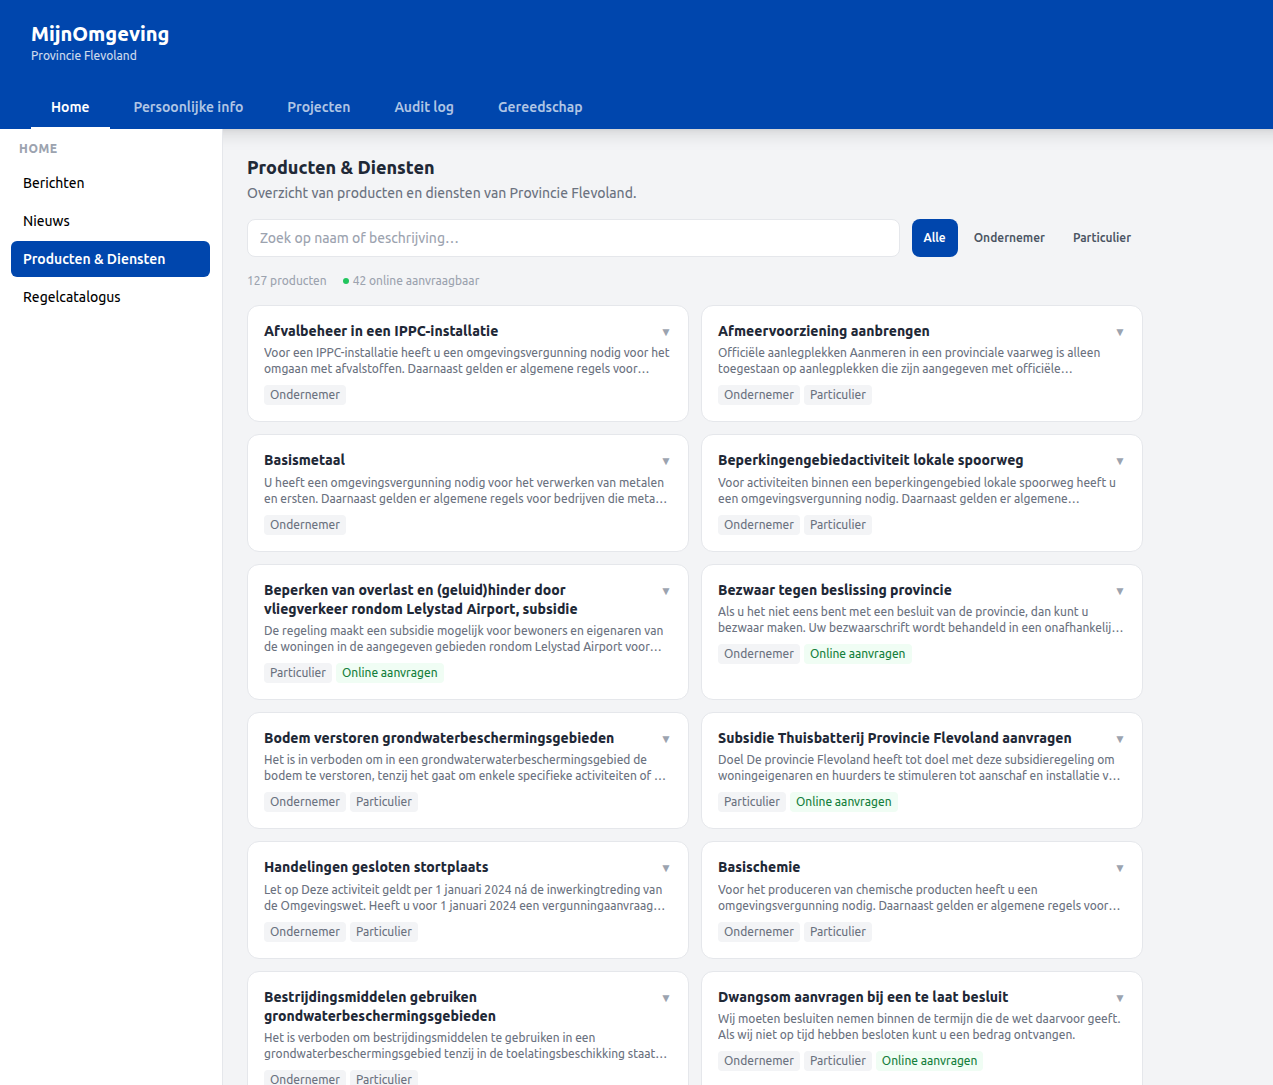
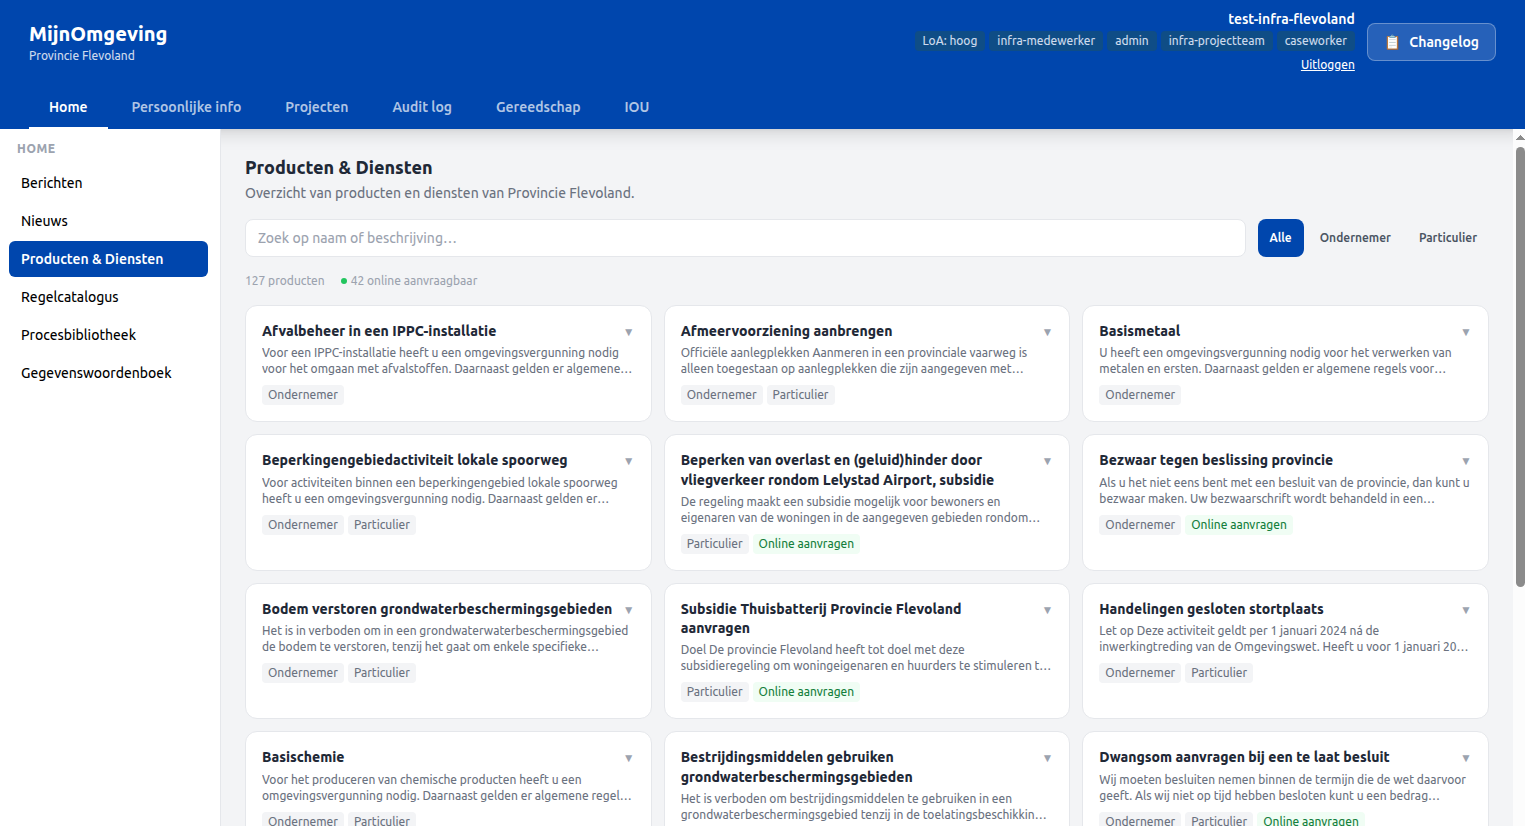
chore: RBA release v2.9.7 documented

diff --git a/docs/en/ronl-business-api/developer/changelog-roadmap.md b/docs/en/ronl-business-api/developer/changelog-roadmap.md
@@ -4,7 +4,53 @@
 
 ## Changelog
 
-## v2.9.5 — Enhancement (April 2, 2026)
+## v2.9.7 — Feature Release (April 3, 2026)
+
+### AI Assistant — CPRMV Legislation Provider
+
+`CprmvMcpProvider` added to the MCP registry. Connects to the CPRMV HTTP MCP server at `acc.cprmv.open-regels.nl/mcp` using `StreamableHTTPClientTransport` — a remote HTTP endpoint, not a subprocess. Enabled via `CPRMV_MCP_ENABLED=true`; URL overridable via `CPRMV_URL`.
+
+Three tools exposed: `rules_rules__rule_id_path__get` (retrieve rules from BWB, CVDR, or EU CELLAR by rule ID path), `ref_ref__referencemethod___reference__get` (resolve rules by Juriconnect reference), `celex_cellar_by_celex__celexid___language___format__get` (look up EU CELLAR publications by CELEX id).
+
+`config.cprmv` added to `Config`: `enabled` (`CPRMV_MCP_ENABLED`, default `false`), `url` (`CPRMV_URL`).
+
+### AI Assistant — LDE Process Library Provider
+
+`LdeMcpProvider` added. Spawns a custom `lde-mcp` stdio subprocess (`src/mcp-servers/lde/index.ts` in dev, `dist/mcp-servers/lde/index.js` in prod) that connects directly to the LDE `lde_assets` PostgreSQL database. Enabled via `LDE_MCP_ENABLED=true` and `LDE_DATABASE_URL`.
+
+Six tools: `bundle_list`, `bundle_get` (deployed BPMN bundles with forms, documents, subprocesses, and DMN keys), `form_list`, `form_get` (full Camunda Form JSON schema), `document_list`, `document_get` (zones and bindings).
+
+SSL handled by stripping `sslmode` from the connection URL and passing `ssl: { rejectUnauthorized: true }` to the pg `Pool` constructor directly — avoids the pg-connection-string `sslmode=require` deprecation warning.
+
+`config.lde` added to `Config`: `enabled` (`LDE_MCP_ENABLED`, default `false`), `databaseUrl` (`LDE_DATABASE_URL`).
+
+### AI Assistant — LLM Provider Architecture
+
+`LlmProvider` interface introduced in `src/services/llm/LlmProvider.ts`. Decouples the agentic loop from any specific SDK — `mcpChat.service.ts` has no direct dependency on Anthropic or OpenAI. Provider-agnostic types: `AgentMessage`, `AgentToolUse`, `AgentToolResult`, `LlmStreamParams`, `LlmTurnResult`.
+
+`LlmRegistry` singleton maps model IDs to their owning provider. `getAvailableModels()` returns only models from providers where `isAvailable()` is `true`.
+
+`AnthropicLlmProvider` registered with three models: `claude-sonnet-4-20250514`, `claude-opus-4-20250514`, `claude-haiku-4-5-20251001`. Enabled when `ANTHROPIC_API_KEY` is set.
+
+`OpenAILlmProvider` registered with `gpt-4o` and `gpt-4o-mini`. Enabled when `OPENAI_API_KEY` is set.
+
+`GET /v1/mcp/models` added — returns all available models with `providerId` and `providerDisplayName`. Used by the frontend model selector dropdown.
+
+`POST /v1/mcp/chat` body extended with `modelId: string` — required field; returns `400 INVALID_REQUEST` when absent.
+
+Frontend: model selector dropdown rendered below the subtitle in the AI Assistant header. Hidden when only one model is available. First available model pre-selected on mount.
+
+### Caseworker Dashboard — Procesbibliotheek
+
+New `procesbibliotheek` section added to the Home tab for all tenants whose `leftPanelSections.home` includes the entry (currently Utrecht, Amsterdam, Rotterdam, Den Haag, Flevoland). Publicly accessible (`isPublic: true`).
+
+Fetches deployed BPMN bundles from the LDE public API (`VITE_LDE_API_URL/bundles/public`). A dedicated `ldeApi` Axios instance is used — no Keycloak `Authorization` header is sent. Cards show process name, `bpmnProcessId`, status badge (WIP/Actief/Concept), role badge (Standalone/Subprocess), and deployment date; expand to reveal forms, documents, DMN keys, and deployment ID.
+
+`ProcessBundle`, `BundleDeployedForm`, `BundleDeployedDocument` types exported from `api.ts`. `VITE_LDE_API_URL` added to all env files and `vite-env.d.ts`.
+
+---
+
+## v2.9.6 — Enhancement (April 2, 2026)
 
 ### IOU — Gebruiksscenario indienen — UX improvements
 
@@ -26,7 +72,7 @@ The `/use-case` submission remains plain JSON (`Content-Type: application/json`)
 
 ---
 
-## v2.9.4 — Feature Release (April 1, 2026)
+## v2.9.5 — Feature Release (April 1, 2026)
 
 ### Caseworker Dashboard — IOU tab (Flevoland)
 
@@ -54,6 +100,28 @@ To enable the IOU tab for another tenant, add an `iou` key with the four section
 Both endpoints require `GITLAB_TOKEN`, `GITLAB_BASE_URL`, and `GITLAB_PROJECT_PATH` to be set. Missing configuration returns `503 GITLAB_NOT_CONFIGURED`.
 
 See [IOU GitLab Integration](iou-gitlab-integration.md) for full setup instructions, environment variable reference, and the curl verification steps.
+
+---
+
+## v2.9.4 — Feature Release (March 30, 2026)
+
+### AI Assistant — Multi-Source MCP Registry
+
+`McpClientService` singleton replaced by `McpRegistry` — a provider registry that manages multiple independent MCP sources. Each provider connects, exposes a curated set of tools, and contributes a section to the composite system prompt independently. A provider failure does not block other providers.
+
+`McpProvider` interface introduced: `id`, `displayName`, `description`, `connect()`, `disconnect()`, `getToolDefinitions()`, `callTool()`, `isConnected()`, `systemPromptContribution()`.
+
+`OperatonMcpProvider` replaces `McpClientService` — identical stdio subprocess behaviour, 15-tool `ALLOWED_TOOLS` curation gate preserved.
+
+`TriplyDbMcpProvider` added — spawns the bundled `triplydb-mcp` stdio server; connects to the RONL SPARQL endpoint (`stevengort/RONL`). Exposes 11 tools: `dmn_list`, `dmn_get`, `dmn_chain_links`, `dmn_enhanced_chain_links`, `dmn_semantic_equivalences`, `organization_list`, `service_list`, `rule_list`, `concept_list`, `service_rules_metadata`, `sparql_query`. Enabled via `TRIPLYDB_MCP_ENABLED=true`.
+
+`McpRegistry.getToolDefinitions(providerIds?)` and `callTool()` accept an optional provider ID filter. `buildSystemPrompt(providerIds?)` assembles a composite prompt from only the selected connected providers. `getProviderMeta()` returns metadata and connection status for all registered providers.
+
+`POST /v1/mcp/chat` extended with `sources: string[]` — provider IDs selected by the user for the session. `GET /v1/mcp/sources` added — returns provider metadata and connection status.
+
+Frontend: source selector toggle buttons rendered below the message history. All connected sources pre-selected by default; offline providers shown greyed-out. Send button and textarea disabled when no sources are selected. Header subtitle shows active source display names dynamically.
+
+Markdown rendering added to assistant bubbles via `react-markdown` + `@tailwindcss/typography` prose classes. In-progress streaming bubble also renders Markdown incrementally.
 
 ---
 
@@ -602,10 +670,17 @@ Utrecht, Amsterdam, Rotterdam, Den Haag — each with isolated data, custom them
 | Berichten — live Provincie Flevoland RSS feed            | v2.9.3  |
 | Producten & Diensten Catalogus (Flevoland)               | v2.9.3  |
 | AI Assistant — SSE streaming + TriplyDB Knowledge Graph  | v2.9.3  |
-| IOU tab — GitLab integration (Flevoland)                 | v2.9.4  |
-| `POST /v1/public/use-cases`, `POST /v1/public/feedback`  | v2.9.4  |
-| IOU form UX — step badges, add/remove, file attachments  | v2.9.5  |
-| `POST /v1/public/upload-file`                            | v2.9.5  |
+| AI Assistant — Multi-Source MCP Registry (McpRegistry)   | v2.9.4  |
+| TriplyDbMcpProvider + Knowledge Graph tools              | v2.9.4  |
+| Source selector UI + Markdown rendering in chat bubbles  | v2.9.4  |
+| IOU tab — GitLab integration (Flevoland)                 | v2.9.5  |
+| `GET /v1/public/use-cases`, `POST /v1/public/feedback`   | v2.9.5  |
+| IOU form UX — step badges, add/remove, file attachments  | v2.9.6  |
+| `POST /v1/public/upload-file`                            | v2.9.6  |
+| CPRMV Legislation Provider                               | v2.9.7  |
+| LDE Process Library Provider                             | v2.9.7  |
+| LLM Provider Architecture (LlmRegistry, OpenAI support)  | v2.9.7  |
+| Procesbibliotheek section                                | v2.9.7  |
 
 ---
 

diff --git a/docs/en/ronl-business-api/developer/mcp-ai-assistant.md b/docs/en/ronl-business-api/developer/mcp-ai-assistant.md
@@ -16,24 +16,6 @@ Sources and models are selected per session. See [LLM Provider Architecture](llm
 
 ---
 
-## Access pattern
-
-This feature uses [**Pattern 2 — `operaton-mcp` via `engine-rest`**](operaton-access-patterns.md#pattern-2-operaton-mcp-via-engine-rest-oidc) from the Operaton Access Patterns reference. The `operaton-mcp` subprocess talks **directly to Operaton's `engine-rest` API**, bypassing the RONL Business API entirely. It receives the full, unfiltered Operaton surface — all process instances, all deployments, all tenants — with no organisation filter applied.
-
-In `mcpClient.service.ts`, the `StdioClientTransport` spawns the `operaton-mcp` child process and passes it the following env vars directly from the backend configuration:
-```typescript
-OPERATON_BASE_URL: config.operaton.baseUrl,   // → OPERATON_BASE_URL (must end with /engine-rest)
-OPERATON_USERNAME: config.operaton.username,
-OPERATON_PASSWORD: config.operaton.password,
-```
-
-Authentication is **basic auth** — unlike the standalone external `operaton-mcp` configuration described in the access patterns page, which uses OIDC client credentials. Because the AI assistant runs as an embedded backend subprocess, it inherits the backend's own Operaton service account credentials rather than an independent Keycloak client.
-
-!!! warning "OPERATON_BASE_URL must point at engine-rest"
-    Setting `OPERATON_BASE_URL` to the RONL Business API base URL (e.g. `https://acc.api.open-regels.nl`) will break every MCP tool call. The AI assistant requires the native `engine-rest` path structure — routes like `/process-instance`, `/history/process-instance`, and `/deployment` must resolve directly on the Operaton host. See [Why the patterns are incompatible](operaton-access-patterns.md#why-the-patterns-are-incompatible).
-
----
-
 ## Data sources
 
 The AI assistant connects to one or more **MCP providers** registered in `McpRegistry`. Each provider exposes a curated set of read-only tools and contributes a section to the system prompt. The frontend fetches the list of providers from `GET /v1/mcp/sources` on mount and pre-selects all connected ones. The user can deselect sources before sending a message.
@@ -61,6 +43,22 @@ The `OperatonMcpProvider` spawns the `operaton-mcp` npm package as a stdio child
 `processDefinition_list`, `processDefinition_count`, `processDefinition_getByKey`, `processInstance_list`, `processInstance_count`, `processInstance_get`, `task_list`, `task_count`, `task_getById`, `decision_list`, `decision_getByKey`, `deployment_list`, `deployment_count`, `deployment_getById`, `incident_list`, `incident_count`
 
 All other `operaton-mcp` tools are blocked by the `ALLOWED_TOOLS` set in `OperatonMcpProvider.ts`.
+
+#### Access pattern
+
+The MCP AI Assistant uses [**Pattern 2 — `operaton-mcp` via `engine-rest`**](operaton-access-patterns.md#pattern-2-operaton-mcp-via-engine-rest-oidc) from the Operaton Access Patterns reference. The `operaton-mcp` subprocess talks **directly to Operaton's `engine-rest` API**, bypassing the RONL Business API entirely. It receives the full, unfiltered Operaton surface — all process instances, all deployments, all tenants — with no organisation filter applied.
+
+In `mcpClient.service.ts`, the `StdioClientTransport` spawns the `operaton-mcp` child process and passes it the following env vars directly from the backend configuration:
+```typescript
+OPERATON_BASE_URL: config.operaton.baseUrl,   // → OPERATON_BASE_URL (must end with /engine-rest)
+OPERATON_USERNAME: config.operaton.username,
+OPERATON_PASSWORD: config.operaton.password,
+```
+
+Authentication is **basic auth** — unlike the standalone external `operaton-mcp` configuration described in the access patterns page, which uses OIDC client credentials. Because the AI assistant runs as an embedded backend subprocess, it inherits the backend's own Operaton service account credentials rather than an independent Keycloak client.
+
+!!! warning "OPERATON_BASE_URL must point at engine-rest"
+    Setting `OPERATON_BASE_URL` to the RONL Business API base URL (e.g. `https://acc.api.open-regels.nl`) will break every MCP tool call. The AI assistant requires the native `engine-rest` path structure — routes like `/process-instance`, `/history/process-instance`, and `/deployment` must resolve directly on the Operaton host. See [Why the patterns are incompatible](operaton-access-patterns.md#why-the-patterns-are-incompatible).
 
 ### Knowledge Graph tools (`triplydb`)
 

diff --git a/docs/en/ronl-business-api/features/procesbibliotheek.md b/docs/en/ronl-business-api/features/procesbibliotheek.md
@@ -1,0 +1,57 @@
+# Procesbibliotheek
+
+From v2.9.7, the caseworker dashboard includes a **Procesbibliotheek** — a public section showing all deployed BPMN process bundles from the Linked Data Explorer (LDE). It gives caseworkers and unauthenticated visitors an at-a-glance view of the processes, forms, document templates, and decision models that are live in the platform.
+
+<figure markdown style="width:100%; margin:0;">
+  ![Screenshot: Procesbibliotheek — card grid showing deployed BPMN bundles with status and role badges](../../../assets/screenshots/caseworker-dashboard-procesbibliotheek.png)
+  <figcaption>Procesbibliotheek — each card represents a deployed BPMN bundle. Expanding a card reveals linked forms, document templates, and DMN keys.</figcaption>
+</figure>
+
+---
+
+## Placement and access
+
+The Procesbibliotheek appears under the **Home** tab in the caseworker dashboard left panel for all tenants whose `tenants.json` entry includes `{ "id": "procesbibliotheek", "label": "Procesbibliotheek", "isPublic": true }` in `leftPanelSections.home`. It is rendered by the `ProcesBibliotheek` React component (`src/components/CaseworkerDashboard/ProcesBibliotheek.tsx`).
+
+`isPublic: true` means it is accessible without login, alongside Nieuws, Berichten, and Regelcatalogus.
+
+---
+
+## What the cards show
+
+Each card represents one deployed BPMN bundle from the LDE. The collapsed card shows:
+
+- Process name (from the LDE bundle metadata)
+- `bpmnProcessId` (the Operaton process definition key)
+- Status badge: **WIP**, **Actief**, or **Concept**
+- Role badge: **Standalone** or **Subprocess**
+- Deployment date
+
+Expanding a card reveals:
+
+- Linked Camunda Form schemas (by `camunda:formRef`)
+- Linked document templates (by `ronl:documentRef`)
+- Linked DMN decision keys
+- LDE deployment ID
+
+---
+
+## Data source
+
+Data is fetched on mount from `VITE_LDE_API_URL/bundles/public`. This is the same public endpoint used by the LDE frontend and requires no authentication. A dedicated `ldeApi` Axios instance in `services/api.ts` is used to avoid attaching the Keycloak `Authorization` header to LDE requests.
+
+---
+
+## AI Assistant integration
+
+The LDE MCP provider (`LdeMcpProvider`) exposes the same bundle data to the AI Assistant via six tools (`bundle_list`, `bundle_get`, `form_list`, `form_get`, `document_list`, `document_get`). A caseworker can ask the AI Assistant questions about deployed processes, forms, and document templates and receive answers drawn directly from the LDE database, complementing the visual browse experience in the Procesbibliotheek.
+
+See [MCP AI Assistant — Process Library tools](../developer/mcp-ai-assistant.md#process-library-tools-lde) for the tool reference.
+
+---
+
+## Related documentation
+
+- [Caseworker Dashboard](caseworker-dashboard.md) — Section ID table and left panel architecture
+- [MCP AI Assistant](../developer/mcp-ai-assistant.md) — LDE Process Library provider
+- [Regelcatalogus](regelcatalogus.md) — Knowledge graph browser, similar public section

diff --git a/docs/en/ronl-business-api/references/environment-variables.md b/docs/en/ronl-business-api/references/environment-variables.md
@@ -46,8 +46,16 @@
 |---------------------|-----------------------|---------|-----------------------------------------------------------------------------|
 | `MCP_ENABLED`       | No                    | `false` | Enables the MCP client and `POST /v1/mcp/chat`. Must be `true` on ACC/PROD. |
 | `ANTHROPIC_API_KEY` | — | Anthropic API key; required when `MCP_ENABLED=true` |
-| `TRIPLYDB_ENDPOINT` | `https://api.open-regels.triply.cc/datasets/stevengort/RONL/services/RONL/sparql` | SPARQL endpoint for the TriplyDB Knowledge Graph MCP provider |
-| `TRIPLYDB_TOKEN` | — | TriplyDB API token; required for authenticated SPARQL queries |
+| `MCP_SKIP_HEALTH_CHECK` | No | `false` | Skips provider health checks on startup. Useful when providers start slowly on first deployment. |
+| `ANTHROPIC_API_KEY` | Conditional | — | Anthropic API key. Required when `MCP_ENABLED=true` and `AnthropicLlmProvider` is active. |
+| `OPENAI_API_KEY` | No | — | Enables `OpenAILlmProvider` and exposes `gpt-4o` and `gpt-4o-mini` in the model selector. Leave unset to use Anthropic only. Requires the `openai` package: `npm install openai --workspace=@ronl/backend`. |
+| `TRIPLYDB_MCP_ENABLED` | No | `false` | Enables the TriplyDB Knowledge Graph MCP provider. |
+| `TRIPLYDB_ENDPOINT` | Conditional | — | SPARQL endpoint URL. Required when `TRIPLYDB_MCP_ENABLED=true`. Use `https://api.open-regels.triply.cc/datasets/stevengort/RONL/services/RONL/sparql` for the canonical RONL graph. |
+| `TRIPLYDB_TOKEN` | No | — | TriplyDB API token. May be empty for public datasets. |
+| `CPRMV_MCP_ENABLED` | No | `false` | Enables the CPRMV legislation provider (Dutch and EU law via HTTP MCP). |
+| `CPRMV_URL` | No | `https://acc.cprmv.open-regels.nl/mcp` | CPRMV MCP server URL. Override for PROD deployment. |
+| `LDE_MCP_ENABLED` | No | `false` | Enables the LDE Process Library provider. Exposes deployed BPMN bundles, form schemas, and document templates to the AI Assistant. |
+| `LDE_DATABASE_URL` | Conditional | — | PostgreSQL connection string for the `lde_assets` database. Required when `LDE_MCP_ENABLED=true`. On Azure: use a separate Flexible Server and append `?sslmode=require`. Locally: reuse the existing `ronl-postgres` container. |
 
 > `OPERATON_USERNAME` and `OPERATON_PASSWORD` are also passed to the `operaton-mcp` child process.
 > Ensure they are set before enabling MCP.
@@ -148,6 +156,7 @@
 |---|---|---|
 | `VITE_API_URL` | Yes | Business API base URL (e.g. `https://api.open-regels.nl/v1`) |
 | `VITE_KEYCLOAK_URL` | Yes | Keycloak base URL (e.g. `https://keycloak.open-regels.nl`) |
+| `VITE_LDE_API_URL` | Yes | LDE public API base URL. Used by `ProcesBibliotheek` to fetch deployed BPMN bundles. ACC: `https://acc.backend.linkeddata.open-regels.nl/v1`. PROD: `https://backend.linkeddata.open-regels.nl/v1`. |
 
 ---
 

diff --git a/docs/en/ronl-business-api/developer/frontend-development.md b/docs/en/ronl-business-api/developer/frontend-development.md
@@ -33,7 +33,13 @@ packages/frontend/src/
 │       ├── RipFase1WipSection.tsx
 │       ├── RipFase1GereedSection.tsx
 │       ├── GereedschapSection.tsx
-│       └── AuditSection.tsx
+│       ├── AuditSection.tsx
+│       ├── McpChatSection.tsx
+│       ├── ProductenDienstenCatalogus.tsx
+│       ├── ProcesBibliotheek.tsx
+│       ├── IouGebruiksscenarioSection.tsx
+│       ├── IouFeedbackSection.tsx
+│       └── IouZakenSection.tsx
 ├── contexts/                   # React contexts (auth, tenant)
 ├── hooks/
 │   └── useProfielData.ts       # Shared hook for Profiel and Rollen sections
@@ -116,7 +122,7 @@ const [isAuthenticated] = useState(() => !!keycloak.authenticated);
 
 The shell renders three zones driven by `tenantConfig` loaded from `public/tenants.json`:
 
-- **Top nav** — three `TopNavPage` values: `home | personal-info | projects`
+- **Top nav** — six `TopNavPage` values: `home | personal-info | projects | audit-log | gereedschap | iou`. The `audit-log` and `gereedschap` tabs are platform-scoped (hardcoded, not in `tenants.json`). The `iou` tab is tenant-scoped and only present for tenants that define `leftPanelSections.iou`.
 - **Left panel** — `tenantConfig.leftPanelSections[activeTopNavPage]`, an array of `LeftPanelSection` objects each with `id`, `label`, and `isPublic`
 - **Main content** — `renderContent()` switches on `activeSection`
 
@@ -284,6 +290,9 @@ VITE_KEYCLOAK_URL=https://acc.keycloak.open-regels.nl
 
 # Business API
 VITE_API_URL=https://acc.api.open-regels.nl/v1
+
+# Linked Data Explorer (used by ProcesBibliotheek)
+VITE_LDE_API_URL=https://acc.backend.linkeddata.open-regels.nl/v1
 ```
 
 **Environment detection:**

diff --git a/docs/en/ronl-business-api/features/caseworker-dashboard.md b/docs/en/ronl-business-api/features/caseworker-dashboard.md
@@ -80,6 +80,7 @@ The main area renders the component for `activeSection`. Each section ID maps to
 | `berichten`             | `<BerichtenSection />`                 | No                                |
 | `producten-diensten`    | `<ProductenDienstenCatalogus />`       | No                                |
 | `regelcatalogus`        | `<RegelCatalogus />`                   | No                                |
+| `procesbibliotheek`     | `<ProcesBibliotheek />`                | No                                |
 | `taken`                 | `<TakenSection />`                     | Yes                               |
 | `archief`               | `<ArchiefSection />`                   | Yes                               |
 | `profiel`               | `<ProfielSection />`                   | Yes                               |
@@ -90,6 +91,7 @@ The main area renders the component for `activeSection`. Each section ID maps to
 | `rip-fase1-wip`         | `<RipFase1WipSection />`               | Yes + `infra-projectteam` role    |
 | `rip-fase1-gereed`      | `<RipFase1GereedSection />`            | Yes + `infra-projectteam` role    |
 | `gereedschap-overzicht` | `<GereedschapSection />`               | Yes (platform-scoped)             |
+| `mcp-chat`              | `<McpChatSection />`                   | Yes — `caseworker` role (platform-scoped) |
 | `audit-overzicht`       | `<AuditSection activeTab="overzicht">` | Yes + `admin` role (platform-scoped) |
 | `audit-details`         | `<AuditSection activeTab="details">`   | Yes + `admin` role (platform-scoped) |
 

diff --git a/docs/en/index.md b/docs/en/index.md
@@ -8,9 +8,9 @@ Welcome to the comprehensive documentation for the IOU Architecture Framework an
 
 <div class="grid cards whats-new-cards" markdown>
 
--   **⚙ RONL Business API — v2.9.6** · *April 2026*
+-   **⚙ RONL Business API — v2.9.7** · *April 2026*
 
-    New IOU tab for the Flevoland tenant: use-case submission form (10 sections, optional file attachments), feedback form with screenshot upload, and read-only active/archived GitLab issue lists — all backed by a new GitLab proxy route group on `/v1/public`. AI Assistant extended with a TriplyDB Knowledge Graph provider alongside the existing Operaton Process Engine — source selector lets caseworkers toggle providers per turn.
+    AI Assistant extended with three independent MCP providers — CPRMV legislation (Dutch & EU law), LDE Process Library (deployed BPMN bundles, forms, document templates), and a multi-model LLM registry supporting both Claude and GPT-4o. New Procesbibliotheek section on the Home tab lets caseworkers browse deployed processes without login. IOU tab for Flevoland: use-case submission with file attachments, feedback with screenshot upload, and read-only GitLab issue lists.
 
     [:octicons-arrow-right-24: Full changelog](ronl-business-api/developer/changelog-roadmap.md)
 

diff --git a/docs/en/ronl-business-api/developer/iou-gitlab-integration.md b/docs/en/ronl-business-api/developer/iou-gitlab-integration.md
@@ -71,6 +71,21 @@ Multer is configured with in-memory storage and an image-only MIME filter. The f
 
 ---
 
+### `POST /v1/public/upload-file`
+
+Uploads a single file of any type to the GitLab project uploads API and returns the GitLab Markdown reference. Used by `IouGebruiksscenarioSection` to pre-upload attachments before the use-case JSON body is submitted, so that the file markdown references can be embedded in the issue description.
+
+**Form field:** `file` (single file, any MIME type, up to 10 MB)
+
+**Response:** `201 { success: true, data: { markdown: "![filename](upload-url)" } }`
+
+Uses a dedicated `uploadAny` multer instance without the image-only `fileFilter` applied to the `/feedback` route. No authentication required.
+
+!!! note "Why separate from `/use-case`"
+    The `/use-case` route accepts `Content-Type: application/json`. Combining file uploads with text fields in a single `multipart/form-data` request caused multer v2 to silently discard all text fields (`req.body` was empty regardless of field presence). Pre-uploading via `/upload-file` and embedding the returned references in the JSON body avoids this.
+
+---
+
 ## Configuration
 
 | Variable | Description |

diff --git a/docs/nl/ronl-business-api/features/procesbibliotheek.md b/docs/nl/ronl-business-api/features/procesbibliotheek.md
@@ -1,0 +1,29 @@
+# Procesbibliotheek
+
+!!! info "Engelstalige pagina beschikbaar"
+    Deze pagina is nog niet vertaald naar het Nederlands. Raadpleeg de <a href="ronl-business-api/features/procesbibliotheek/">Engelse versie</a> voor de volledige inhoud.
+
+---
+
+**Status:** Concept  
+**Engelstalige bron:** `ronl-business-api/features/procesbibliotheek.md`
+
+---
+
+## Placement and access
+
+---
+
+## What the cards show
+
+---
+
+## Data source
+
+---
+
+## AI Assistant integration
+
+---
+
+## Related documentation
